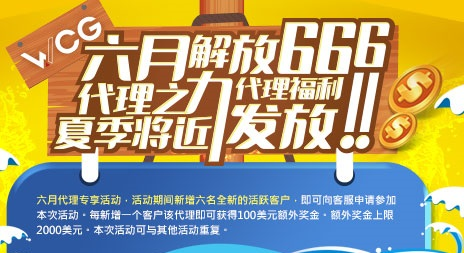
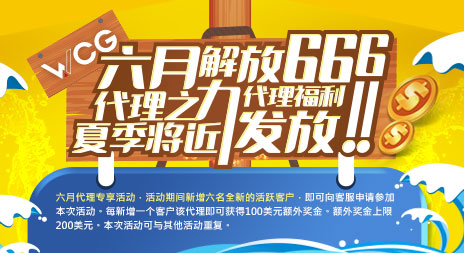
style(wcg6dl): modify WCG6DL content

diff --git a/src/pages/activity/WCG6DL.tsx b/src/pages/activity/WCG6DL.tsx
@@ -128,9 +128,9 @@ const WCG6DL: React.FC<{}> = () => {
 export const WCG6DLSummary: React.FC<{}> = () => (
   <>
     <span style={{ color: 'yellow' }}>
-      六月代理专项活动，活动期间六名全新的激活客户，
+      六月代理专享活动，活动期间新增六名全新的活跃客户，
     </span>
-    随时向客户提供本次活动。每新增一个代理可以获得1000美元的额外奖金。额外增加2000美元的客户申请参加本次活动。次活动可与其他活动重复。
+    即可向客服申请参加本次活动。每新增一个客户该代理即可获得100美元额外奖金。额外奖金上限200美元。本次活动可与其他活动重复。
   </>
 );
 

diff --git a/CHANGELOG.md b/CHANGELOG.md
@@ -2,6 +2,10 @@
 
 All notable changes to this project will be documented in this file. See [standard-version](https://github.com/conventional-changelog/standard-version) for commit guidelines.
 
+### [1.4.10](https://github.com/wolfzxcv/official-site-ib/compare/v1.4.8...v1.4.10) (2022-06-06)
+
+### [1.4.9](https://github.com/wolfzxcv/official-site-ib/compare/v1.4.8...v1.4.9) (2022-06-06)
+
 ### [1.4.8](https://github.com/wolfzxcv/official-site-ib/compare/v1.4.7...v1.4.8) (2022-05-27)
 
 ### [1.4.7](https://github.com/wolfzxcv/official-site-ib/compare/v1.4.6...v1.4.7) (2022-05-18)
